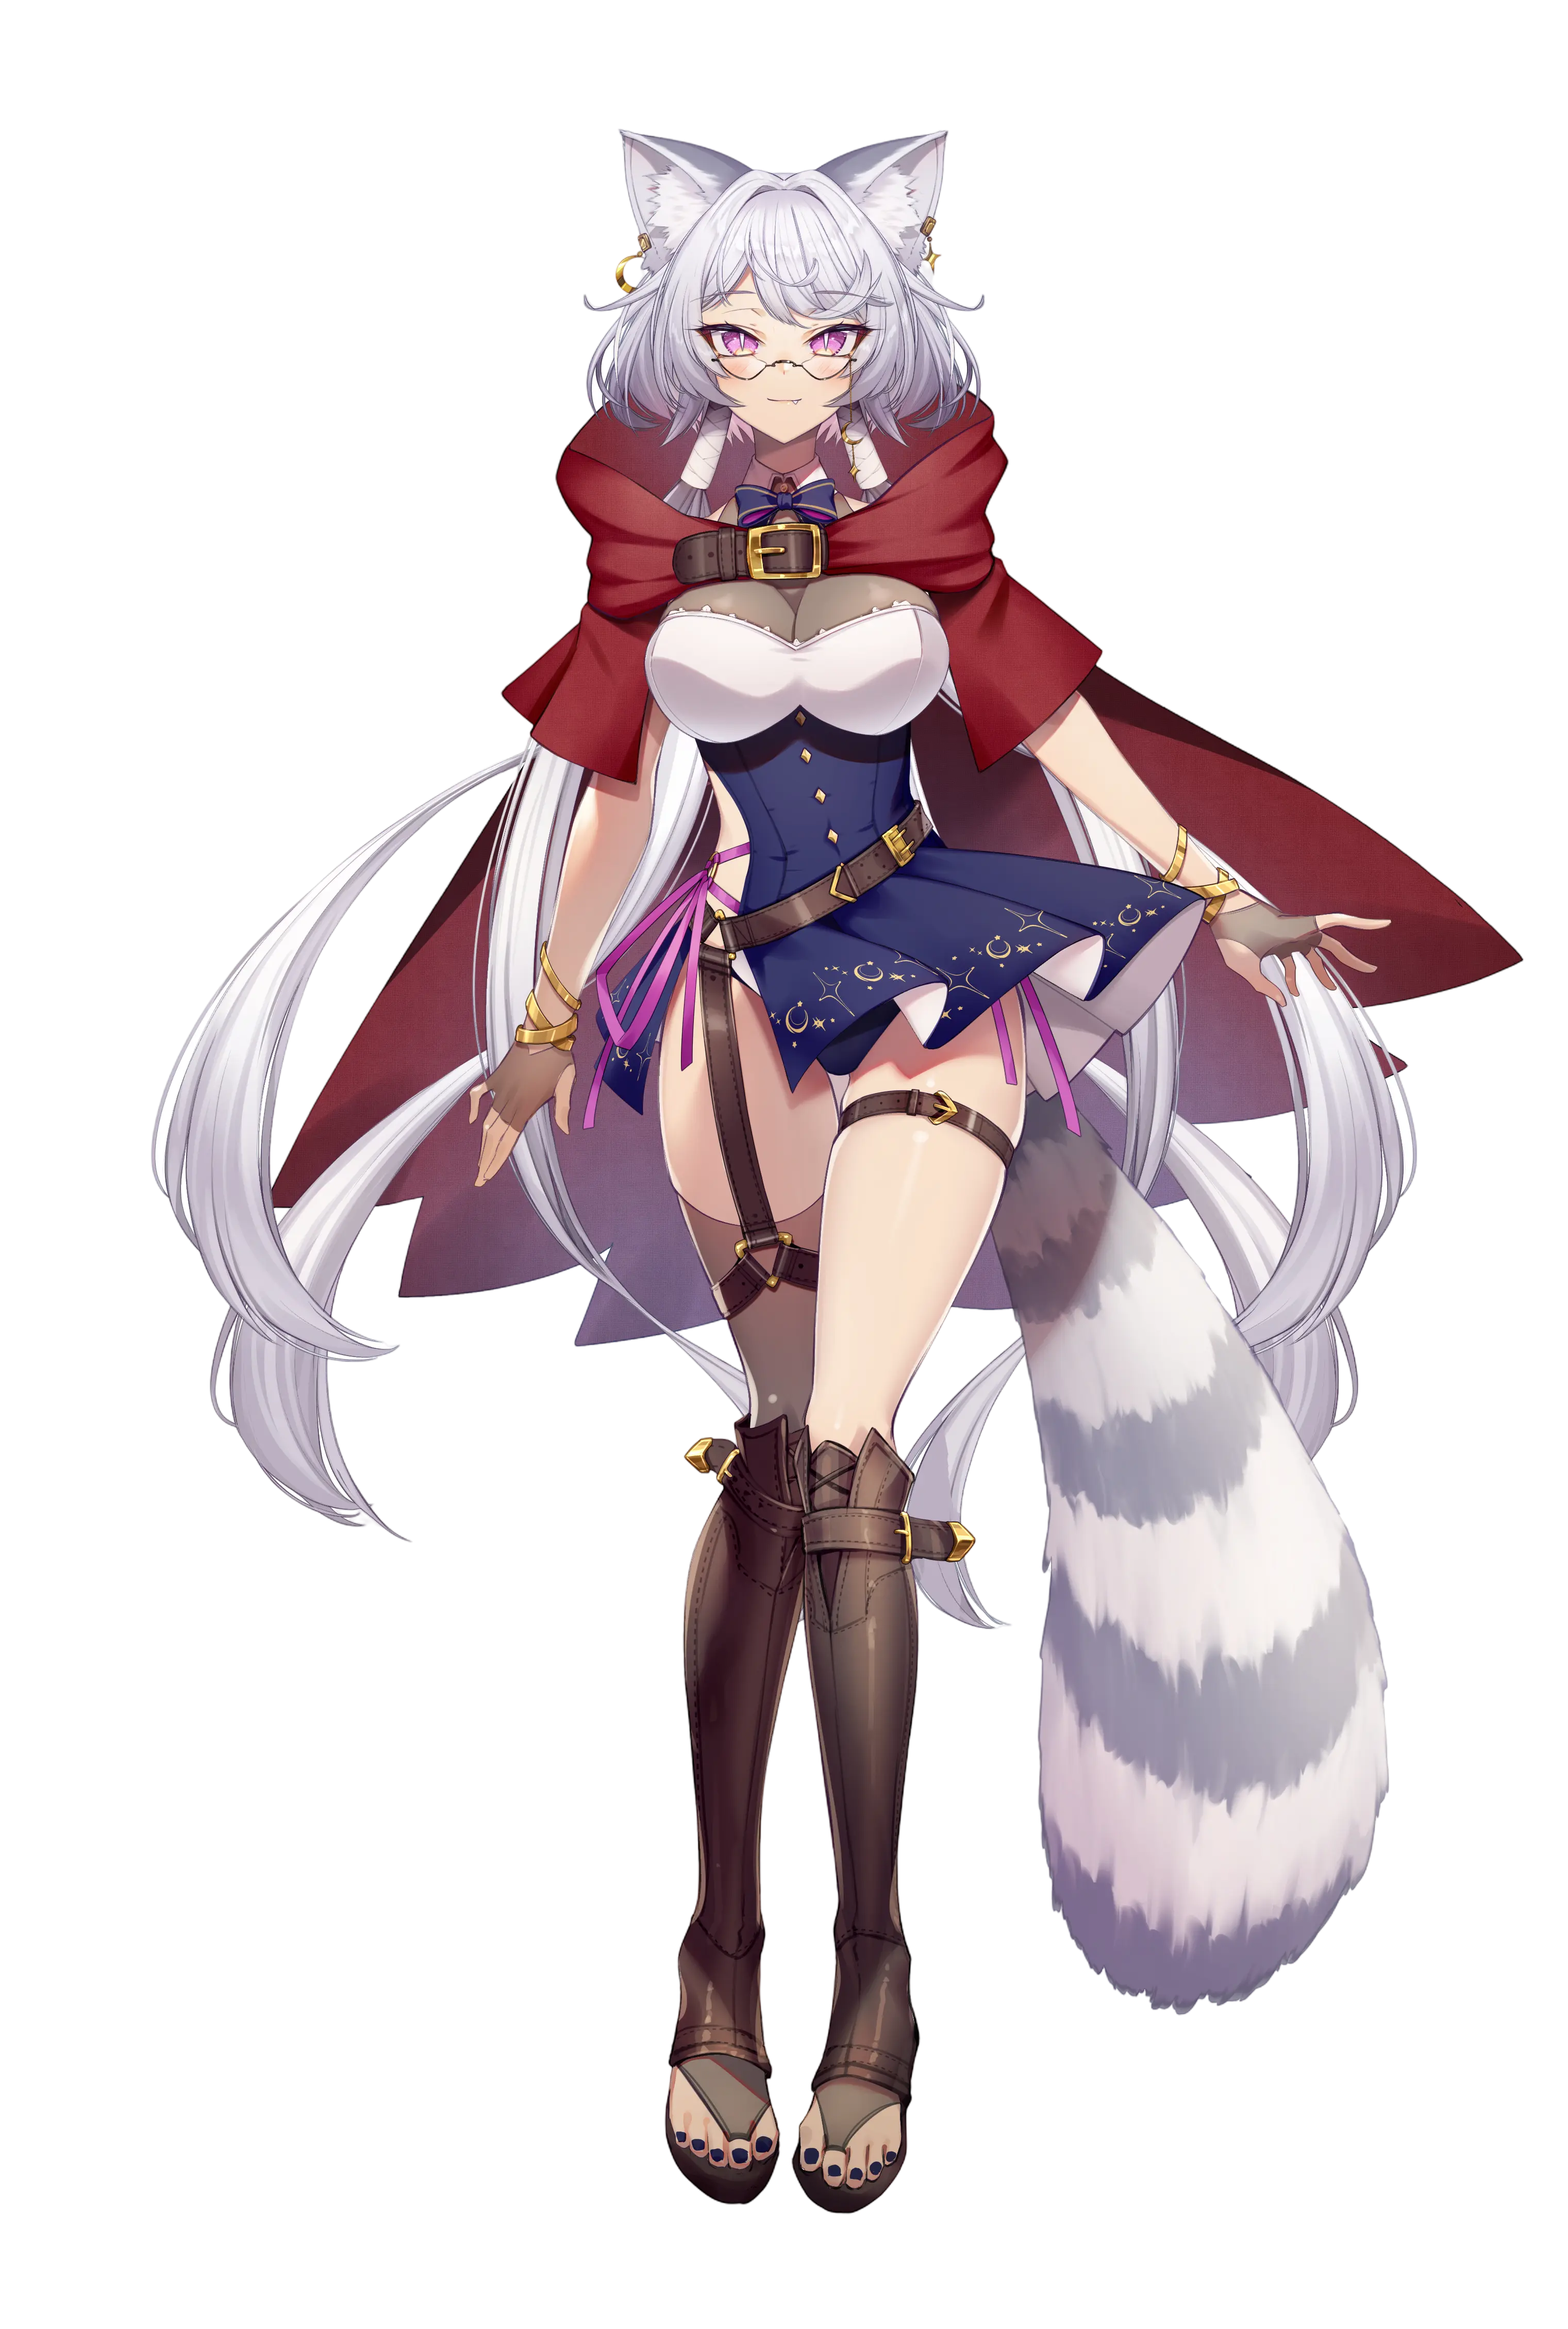
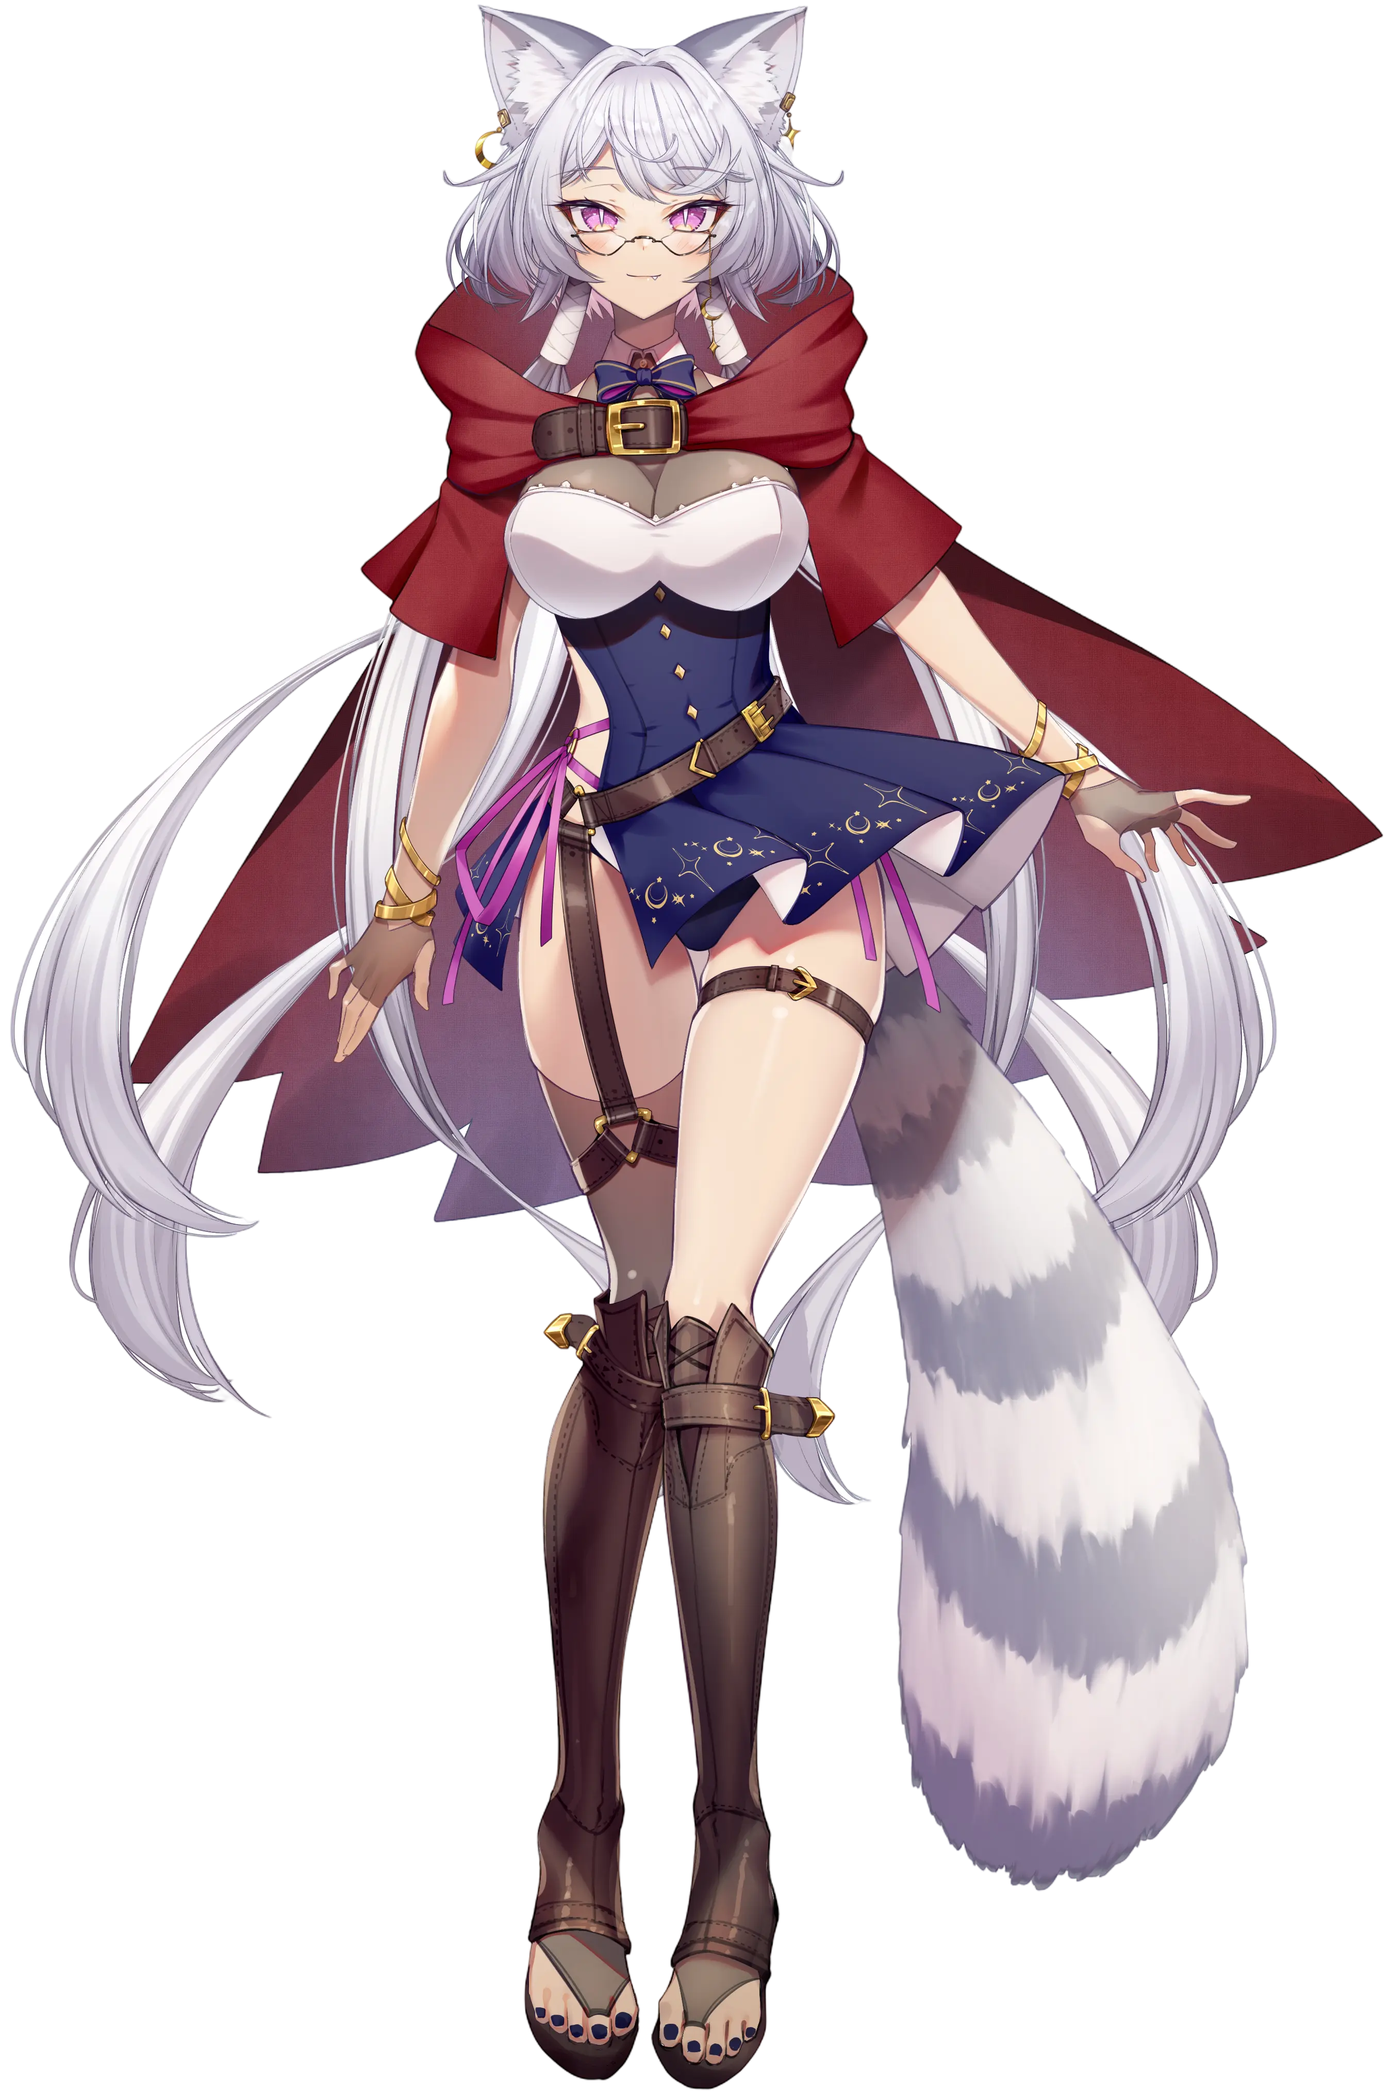
fix: security hardening, iframe sizing, image crop update
- CORS: allowlist prod + localhost:8888, conditional by origin
- CSP: add unsafe-inline to style-src for Vite compatibility
- iframe embed: width/height 100% to rely on CSS aspect-ratio container
- URL scheme validation on VOD href before assignment
- Yozo_Full image: replace with cropped version, remove legacy .png

diff --git a/src/components/TwitchIntegration.js b/src/components/TwitchIntegration.js
@@ -57,7 +57,8 @@ class TwitchIntegration {
       this.status.textContent = 'Offline';
       this.detail.textContent = data.videos[0] ? `Last stream: ${data.videos[0].title}` : 'No recent streams';
       this.ctaLabel.textContent = 'Watch the last VOD';
-      this.cta.dataset.href = data.videos[0]?.url ?? 'https://www.twitch.tv/yozora';
+      const videoUrl = data.videos[0]?.url;
+      this.cta.dataset.href = /^https:\/\//.test(videoUrl) ? videoUrl : 'https://www.twitch.tv/yozora';
     }
   }
 
@@ -76,9 +77,7 @@ class TwitchIntegration {
   }
 
   embed(param) {
-    const width = this.streamContainer.offsetWidth;
-    const height = Math.round(width * (9 / 16));
-    this.streamContainer.innerHTML = `<iframe src="https://player.twitch.tv/?${param}&parent=${window.location.hostname}&muted=false" height="${height}" width="${width}" allowfullscreen></iframe>`;
+    this.streamContainer.innerHTML = `<iframe src="https://player.twitch.tv/?${param}&parent=${window.location.hostname}&muted=false" width="100%" height="100%" allowfullscreen></iframe>`;
   }
 
   renderClip(index) {
@@ -87,9 +86,7 @@ class TwitchIntegration {
       return;
     }
     const clip = this.clips[index];
-    const width = this.clipsContainer.offsetWidth;
-    const height = Math.round(width * (3 / 4));
-    this.clipsContainer.innerHTML = `<iframe src="https://clips.twitch.tv/embed?clip=${clip.id}&parent=${window.location.hostname}" height="${height}" width="${width}" allowfullscreen></iframe>`;
+    this.clipsContainer.innerHTML = `<iframe src="https://clips.twitch.tv/embed?clip=${clip.id}&parent=${window.location.hostname}" width="100%" height="100%" allowfullscreen></iframe>`;
     const titleEl = document.getElementById('clip-title');
     const counterEl = document.getElementById('clip-counter');
     if (titleEl) titleEl.textContent = clip.title;

diff --git a/netlify/functions/Twitch.js b/netlify/functions/Twitch.js
@@ -37,9 +37,12 @@ async function getAccessToken() {
 
 // Main handler
 export const handler = async (event, context) => {
-    // Enable CORS
+    // Enable CORS — allowlist prod + local dev
+    const allowedOrigins = ['https://yozovtfan.netlify.app', 'http://localhost:8888'];
+    const requestOrigin = event.headers?.origin || '';
+    const corsOrigin = allowedOrigins.includes(requestOrigin) ? requestOrigin : allowedOrigins[0];
     const headers = {
-        'Access-Control-Allow-Origin': 'https://yozovtfan.netlify.app',
+        'Access-Control-Allow-Origin': corsOrigin,
         'Access-Control-Allow-Headers': 'Content-Type',
         'Content-Type': 'application/json'
     };
